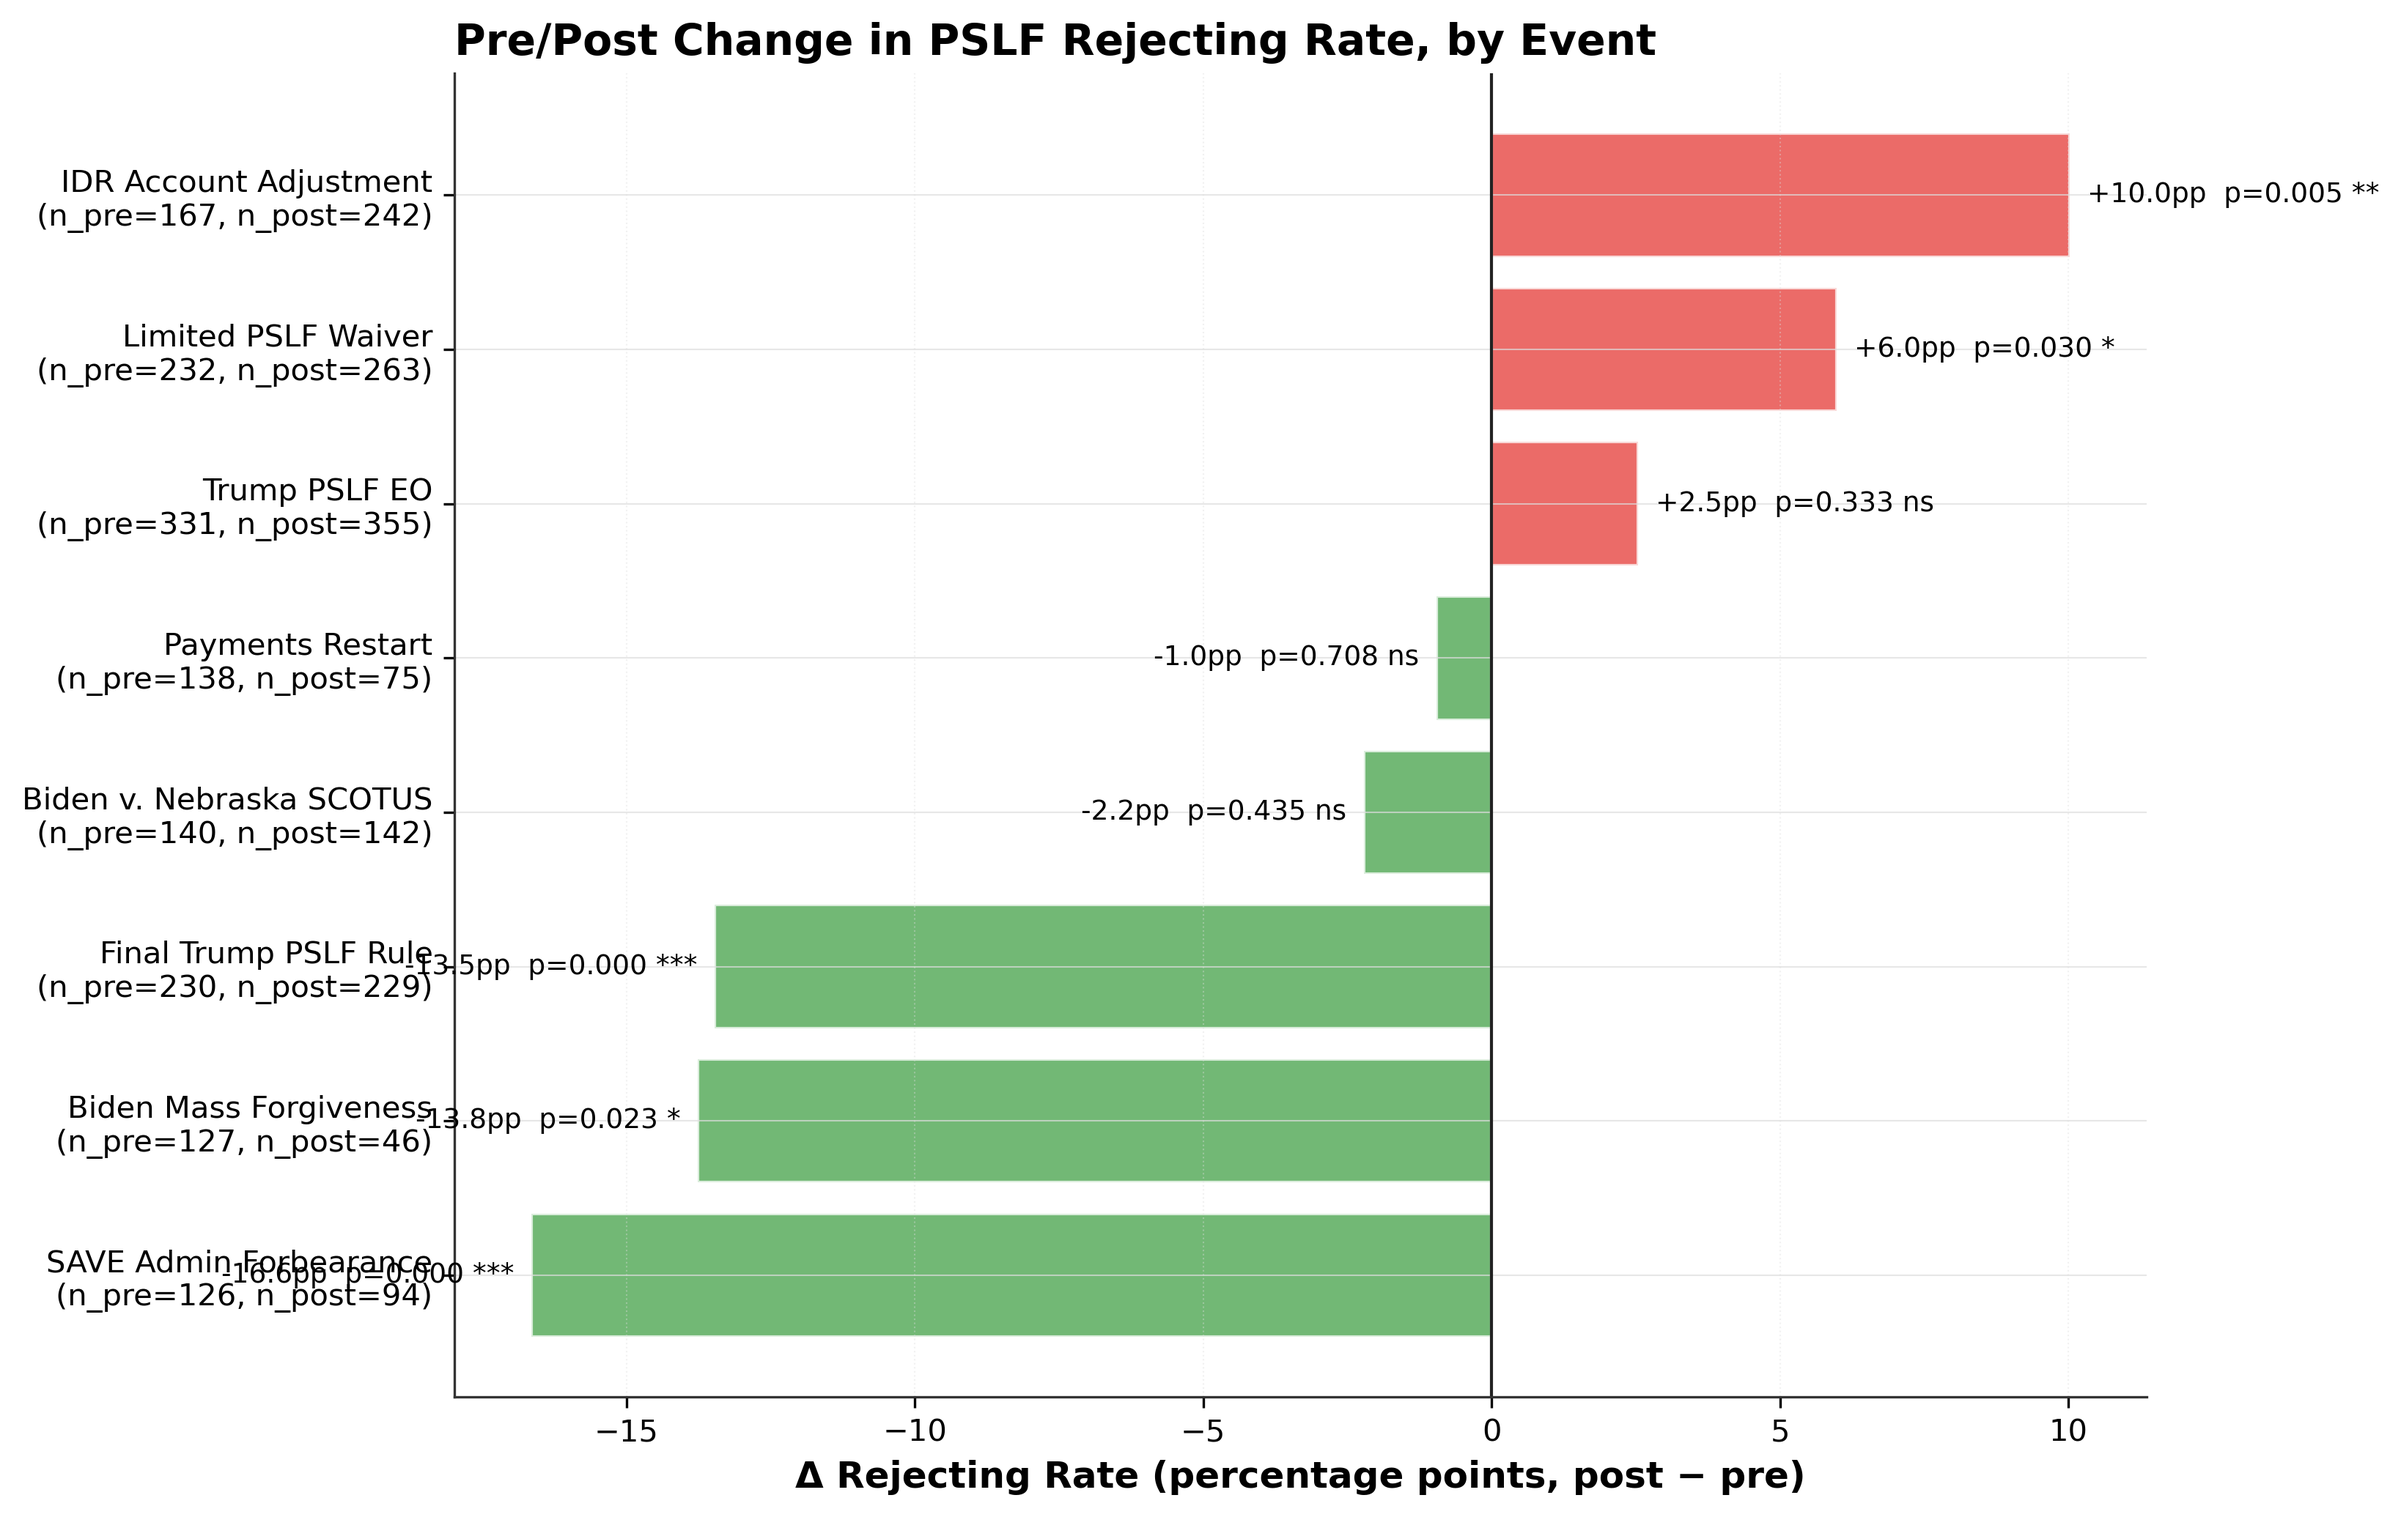
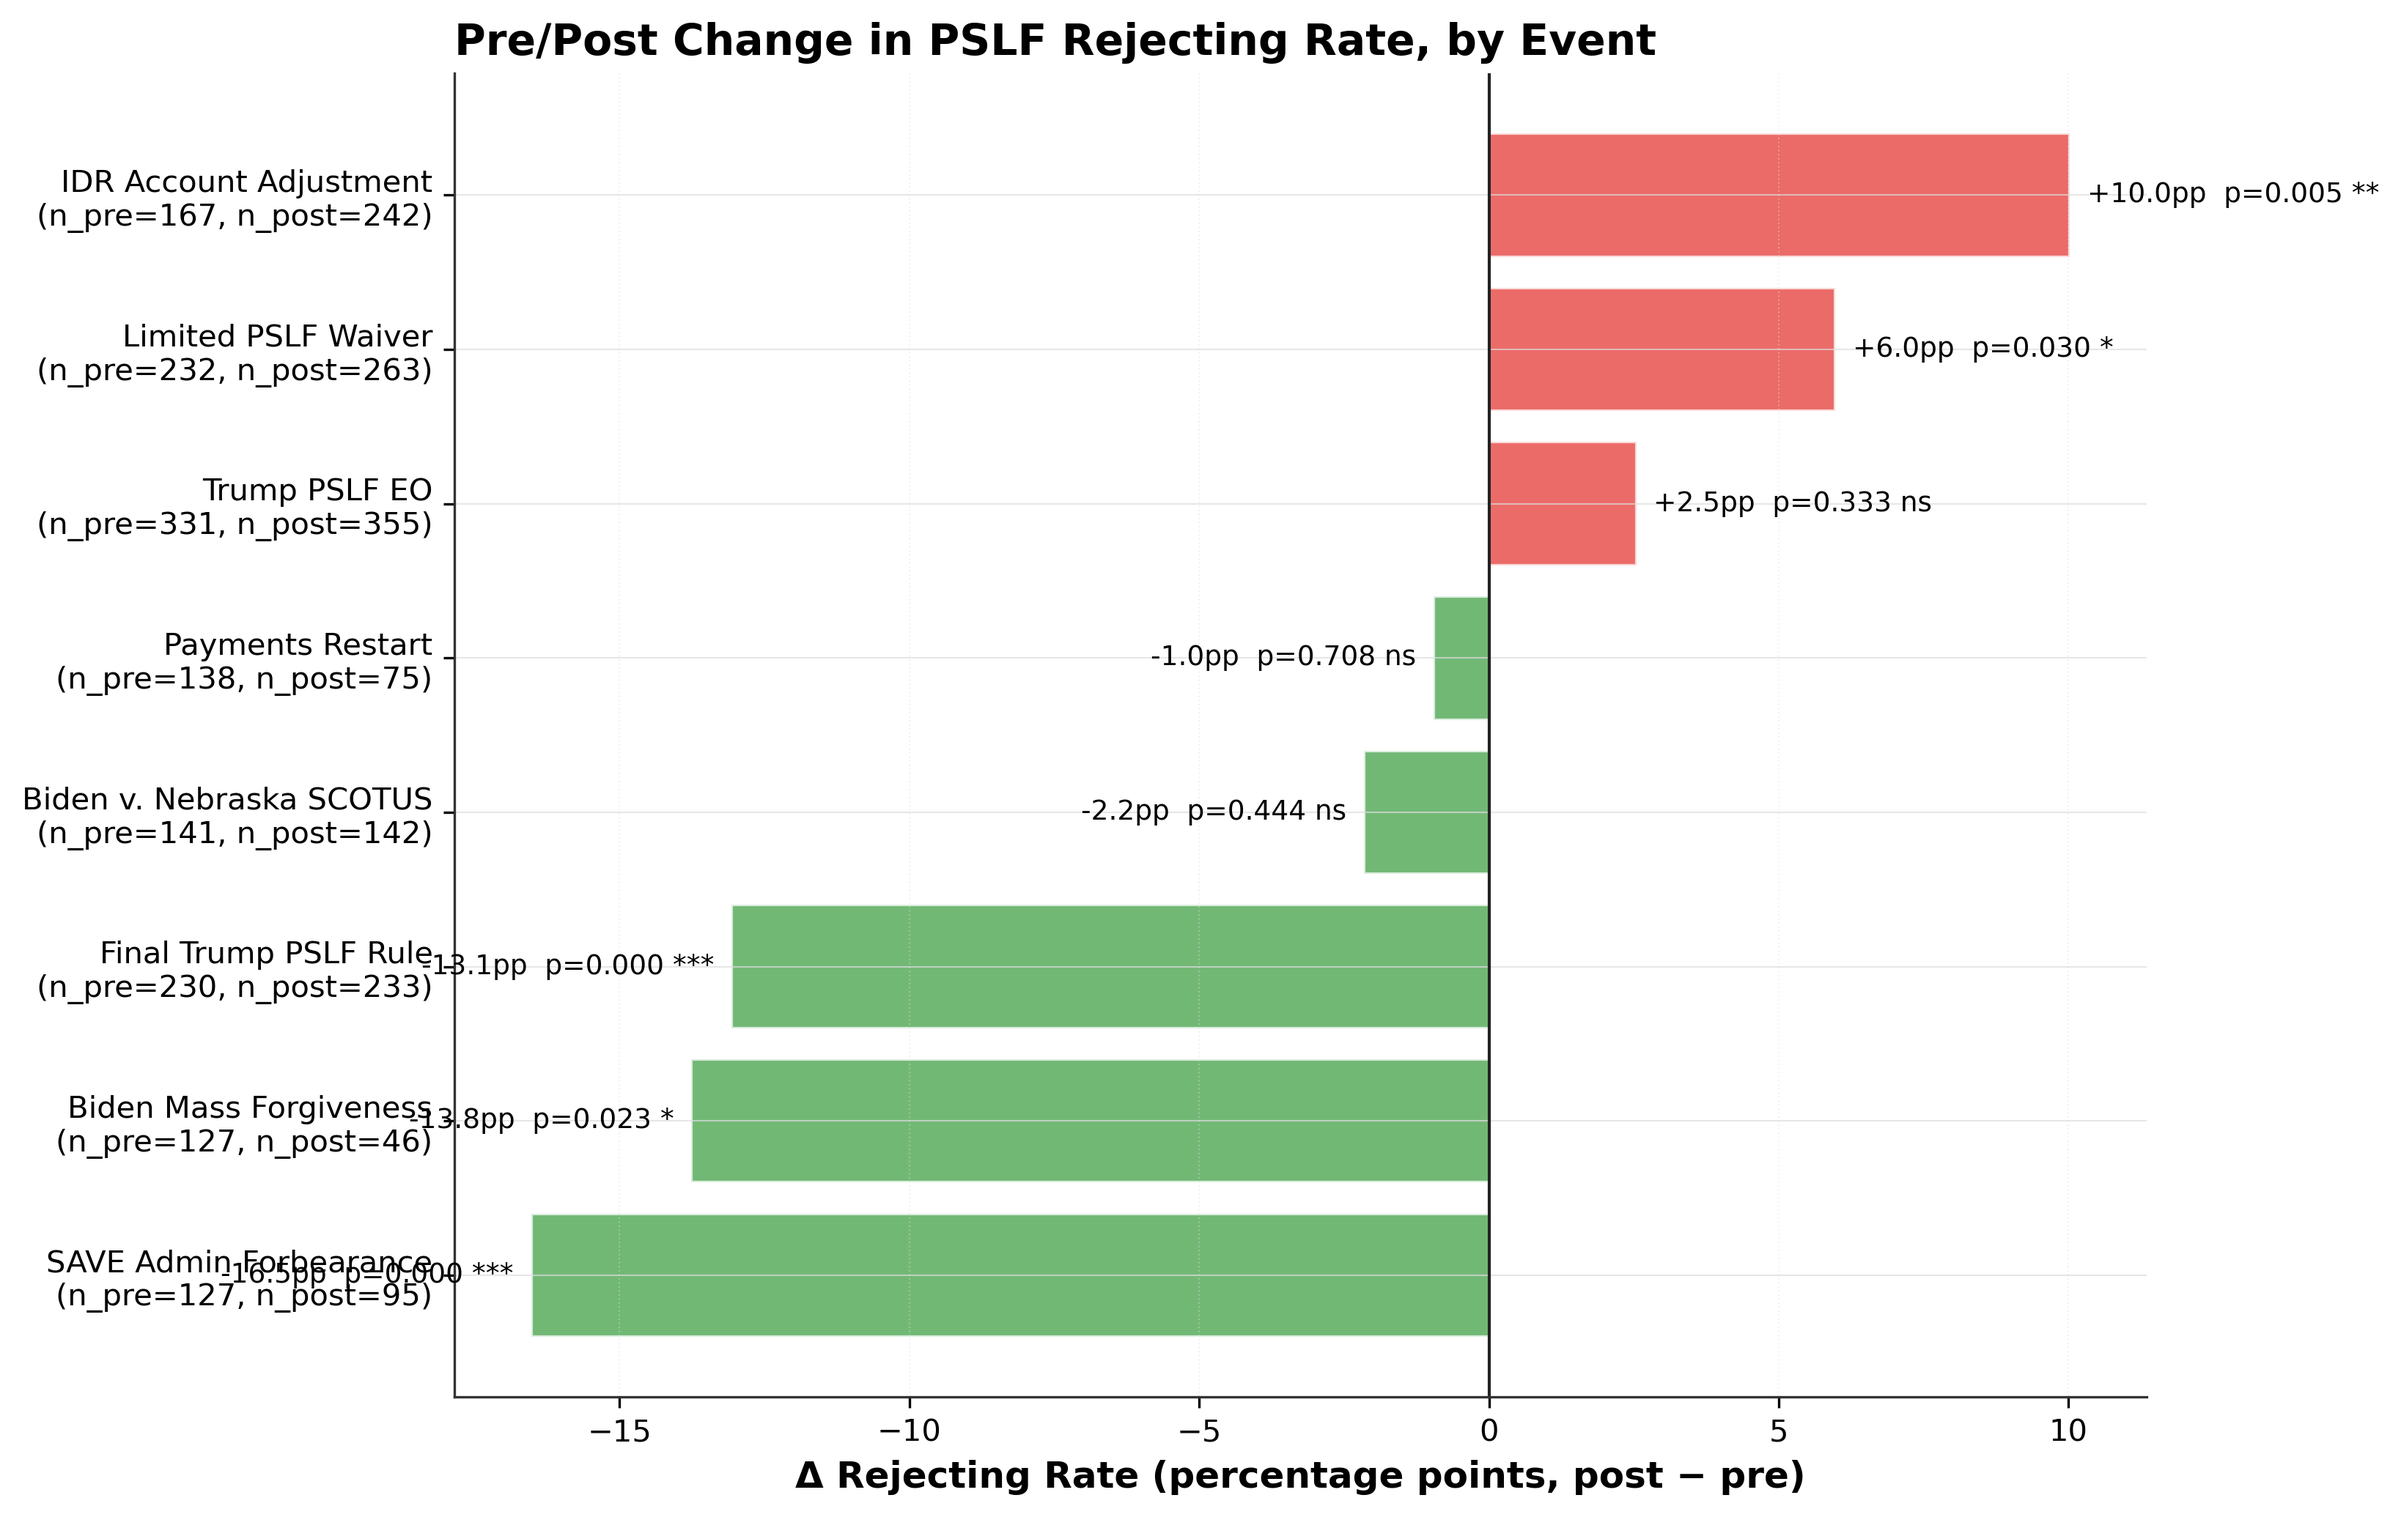
PA/NP Claude expansion (n=51) integrated; PA per-event cells now visible
User ran sentiment_zeroshot.py on the 52 PSLF-filtered new posts from
r/PAstudent + r/prephysicianassistant + r/CRNA (+1 dropped, 0 errors).
51 posts scored at default temperature with full pslf_sentiment +
pslf_stance + primary_topic fields.

Stance distribution of new posts:
  considering: 12, pursuing: 1, rejecting: 1, unknown: 37
  (high unknown rate makes sense: pre-PA students mostly ask general
   PSLF questions without yet having a personal stance)

PIPELINE INTEGRATION:
- Added zeroshot_pa_np_expansion.csv to the loader candidates in both
  pslf_intention_analysis.py and sentiment_triangulation.py
- Re-ran both; outputs refreshed

EFFECT ON HEADLINE FINDINGS:

Triangulation (sample-stability check):
- n_complete: 4,787 → 4,838 (+51 posts with all 3 scorers)
- K-alpha (canonical, ordinal): -0.0315 → -0.0334
- 95% CI: [-0.0482, -0.0143] → [-0.0512, -0.0163]
  Both still tight, both still cleanly below 0; methods finding is
  sample-stable. CONFIRMS: the sentiment-instrument disagreement
  isn't an artifact of any one subsample.

Intention (overall — barely moved):
- n with non-unknown stance: 3,243 → 3,257
- Per-event pooled deltas all within 0.5 pp of prior values
  (e.g. Final Trump Rule -13.5 → -13.1 pp; SAVE Forbearance -16.6 → -16.5 pp)

Per-event × profession (PA newly visible):
- PA × Final Trump PSLF Rule: g_CL=-0.64 (n=15/10, p=0.13) — opposite
  direction from SDN's g=+0.52
- PA × SAVE Admin Forbearance: g_CL=+0.74 (n=17/10, p=0.054 marginal) —
[…]

diff --git a/scripts/pslf_intention_analysis.py b/scripts/pslf_intention_analysis.py
@@ -100,6 +100,9 @@ def load_zeroshot_with_meta():
         ("zeroshot_reddit_eventstrat.csv", "reddit_eventstrat"),
         ("zeroshot_reddit_eventfull.csv", "reddit_eventfull"),
         ("zeroshot_sdn_eventfull.csv", "sdn_eventfull"),
+        # Round-7 expansion: Claude-scored PA/NP posts from r/PAstudent,
+        # r/prephysicianassistant, r/CRNA (52 PSLF-filtered new posts)
+        ("zeroshot_pa_np_expansion.csv", "pa_np_expansion"),
     ]
     zs_frames = []
     for f, label in candidates:

diff --git a/scripts/sentiment_triangulation.py b/scripts/sentiment_triangulation.py
@@ -239,6 +239,9 @@ def load_zeroshot():
         ("zeroshot_reddit_eventstrat.csv", "reddit_eventstrat"),
         ("zeroshot_reddit_eventfull.csv", "reddit_eventfull"),
         ("zeroshot_sdn_eventfull.csv", "sdn_eventfull"),
+        # Round-7 expansion: Claude-scored PA/NP posts (52 from r/PAstudent +
+        # r/prephysicianassistant + r/CRNA after PSLF strict filter)
+        ("zeroshot_pa_np_expansion.csv", "pa_np_expansion"),
     ]
     frames = []
     for f, label in candidates:

diff --git a/.claude/CLAUDE.md b/.claude/CLAUDE.md
@@ -4,7 +4,7 @@
 
 This project began as a multi-source sentiment analysis of online PSLF discussion. After Path C event-window Claude scoring (n=4,787 posts with all three scorers) and a Round-7 comprehensive audit, **the substantive headline has been replaced by a methodological one**:
 
-**Primary finding (methodological):** Three commonly-used sentiment instruments — TextBlob (lexical affect), VADER (expressive arousal, Hutto & Gilbert 2014), and Claude Sonnet 4 zero-shot (stance toward PSLF, per the prompt) — operationalize **substantially different latent constructs** on policy-discourse text. Three-rater Krippendorff's α=−0.03 (canonical fixed thresholds, 95% CI [−0.048, −0.014]) / +0.17 (charitable upper bound with percentile-matched marginals, 95% CI [+0.151, +0.185]) on n=4,787 posts with all three scorers. Both estimates are robustly far below the 0.667 floor for tentative reliability claims (Krippendorff 1980). Pearson r: TB×VADER +0.30, TB×Claude +0.02 (ns), VADER×Claude +0.12. The construct distinction is theoretically grounded in stance vs sentiment (Mohammad et al. 2016, SemEval-2016 Task 6) but its empirical magnitude on policy discourse has not been previously quantified at this scale.
+**Primary finding (methodological):** Three commonly-used sentiment instruments — TextBlob (lexical affect), VADER (expressive arousal, Hutto & Gilbert 2014), and Claude Sonnet 4 zero-shot (stance toward PSLF, per the prompt) — operationalize **substantially different latent constructs** on policy-discourse text. Three-rater Krippendorff's α=−0.03 (canonical fixed thresholds, 95% CI [−0.051, −0.016]) / +0.17 (charitable upper bound with percentile-matched marginals, 95% CI [+0.151, +0.185]) on **n=4,838 posts with all three scorers** (round-7 expansion: +51 PA/NP posts from r/PAstudent, r/prephysicianassistant, r/CRNA scored 2026-05-08 — α essentially unchanged from the n=4,787 estimate, confirming the finding is sample-stable). Both estimates are robustly far below the 0.667 floor for tentative reliability claims (Krippendorff 1980). Pearson r: TB×VADER +0.30, TB×Claude +0.02 (ns), VADER×Claude +0.12. The construct distinction is theoretically grounded in stance vs sentiment (Mohammad et al. 2016, SemEval-2016 Task 6) but its empirical magnitude on policy discourse has not been previously quantified at this scale.
 
 **Disagreement is NOT LLM stochasticity** (Round-7 critical fix #5 result, 2026-05-08). Test-retest reliability: re-scoring n=605 SDN posts at `temperature=0` (deterministic) vs the original `temperature=1.0` (sampled) gives **Krippendorff's α = +0.958** (95% CI [+0.938, +0.975]); exact-match rate 95.2%. Independent corroboration from the 197 reddit_cross↔eventstrat post_id collisions (two separate temp=1 Reddit scoring passes) shows exact-match 94.4% (186/197). Each scorer is internally reliable; the cross-instrument α near zero is therefore substantive instrument divergence, not measurement noise. **This closes the obvious reviewer objection** ("how do you know it's not just LLM noise?").
 
@@ -88,11 +88,12 @@ Key descriptive observations (NO causal claims, NO behavioral interpretation):
    - **Profession differences (cumulative stance)**: SDN (Medical) has highest rejecting rate at 13.6% (n=1,960); PA, Nursing, OT, SLP, Pharmacy skew "considering" (50–60%); Medical and Teaching skew "pursuing" (56–58%).
    - **The discourse signature typology** (TB+/CL− = lexical relief masking stance disengagement; all− = genuine bad-news consensus; TB−/CL+ = resolute commitment under threat) is itself a contribution to policy-discourse research.
 
-8. **Per-event × per-profession intention shifts** (round-7 expansion, n>=10 per cell). Coverage is dominated by SDN (Medical) — the largest medical-PSLF community — because per-event sample sizes for other professions are tight. Where multi-profession data exists, two patterns emerge:
+8. **Per-event × per-profession intention + sentiment shifts** (round-7 expansion + PA/NP top-up; n>=10 per cell). Coverage is dominated by SDN (Medical) — the largest medical-PSLF community — but the +51 PA/NP scoring (post r/PAstudent + r/prephysicianassistant + r/CRNA) brought PA into the per-event sentiment table for 4 events. Patterns:
    - **Convergent profession response** to administrative resolution: Final Trump PSLF Rule reduced rejecting-rate by 43.9 pp in SDN (Medical) AND by 32.1 pp in Finance (p=0.030, n_pre=12/n_post=21). The relief signal was not exclusive to medical communities. SAVE Admin Forbearance similarly reduced rejecting across SDN (-41.9 pp, p<0.001), Medical (-10 pp, NS), and Finance (-8 pp, NS).
    - **Divergent profession response to ambiguous policy**: Biden Mass Forgiveness moved SDN (Medical) rejecting -19 pp (NS) but moved Reddit Medical +10 pp (NS) — opposite signs across two medical communities, plausibly a residency-vs-student-cohort split (SDN skews resident/attending; r/medicalschool skews pre-clinical). IDR Account Adjustment shows the same pattern: SDN +12.6 pp (p=0.003) vs Medical -9.0 pp (NS). Caveat: small per-event n's for Reddit Medical (≤20).
+   - **PA-specific Claude sentiment cells** (round-7 PA top-up; small n but suggestive): SAVE Forbearance × PA g=+0.74 (n=17/10, p=0.054 marginal) — *opposite* SDN's g=−2.33; Final Trump Rule × PA g=−0.64 (n=15/10, NS) — opposite SDN's g=+0.52; Trump PSLF EO × PA g=−0.44 (n=12/11, NS) — opposite SDN's g=+0.57. PAs may show different stance trajectories than physicians around these specific events. Need more data (Cloudflare-blocked PAF would have helped) before publication-quality claim.
    - **Limited PSLF Waiver SDN-only signal**: +7.0 pp (p=0.019) rejecting-rate INCREASE post-waiver in SDN (Medical) — the "good-news anxiety" pattern at scale. Other professions don't have enough per-event posts to corroborate.
-   - Coverage limit: PA, Nursing, Teaching, Law, OT, SLP, Pharmacy, etc. have insufficient per-event samples (n<10 in pre or post for most events) — profession-stratified per-event analysis here is principally a SDN-Medical-vs-Reddit-Medical comparison plus selected cells.
+   - Coverage limit: Nursing, Teaching, Law, OT, SLP, Pharmacy, etc. still have insufficient per-event samples (n<10 in pre or post for most events) — profession-stratified per-event analysis here is principally a SDN-Medical-vs-Reddit-Medical-vs-PA comparison plus selected Finance/Teaching cells.
 
 ### Analytical Caveats (state explicitly in any write-up)
 - Pre/post tests are **associational**, not causal: no interrupted-time-series counterfactual.
